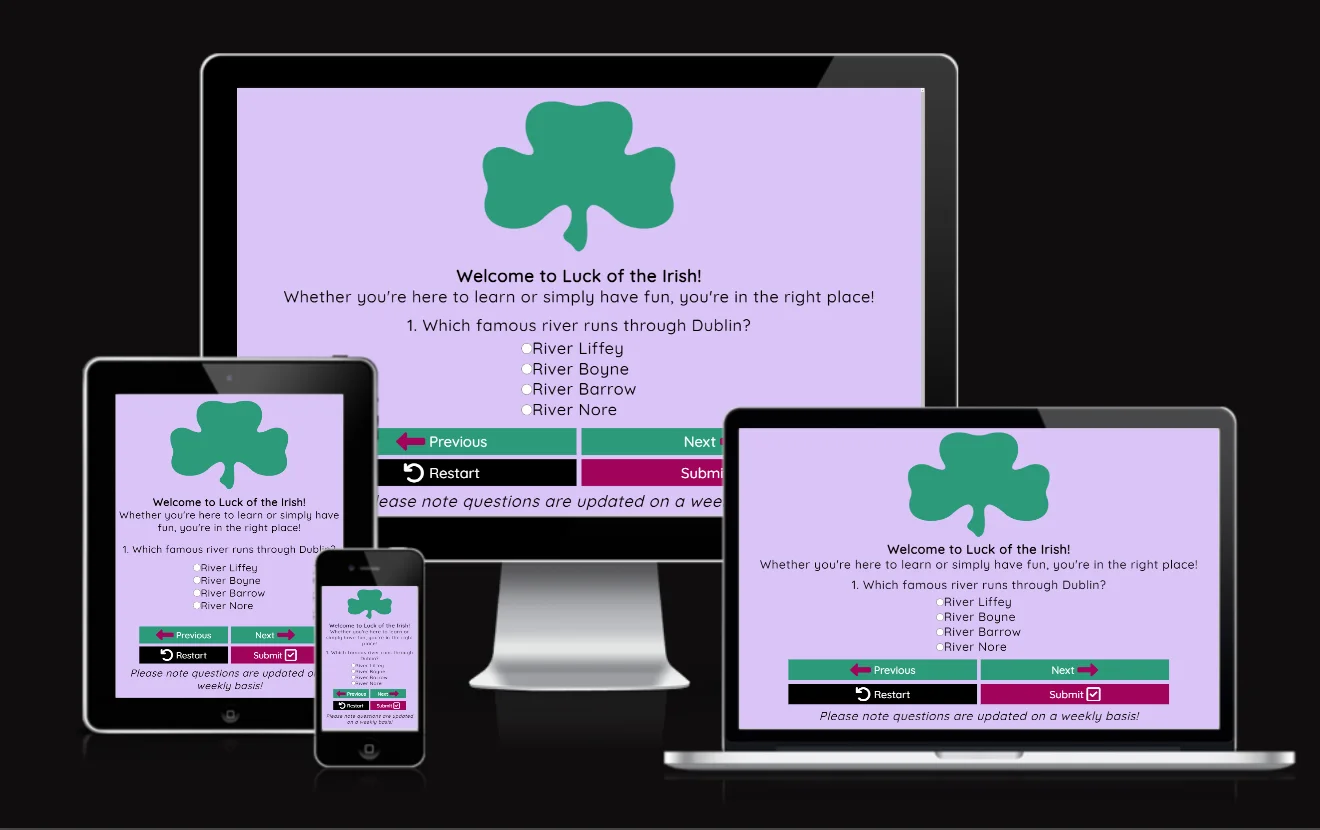
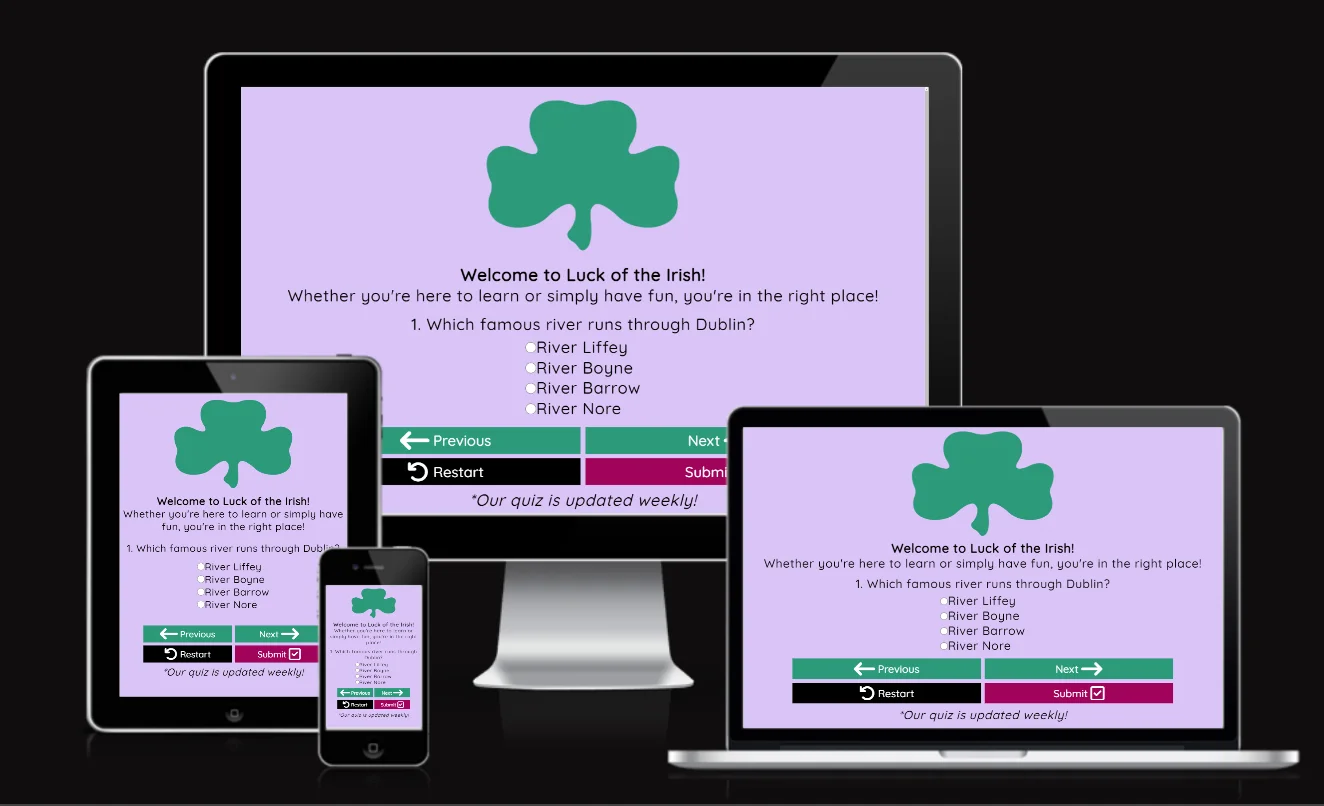
Added to readme file.

diff --git a/assets/css/style.css b/assets/css/style.css
@@ -1,5 +1,5 @@
 /*Google Fonts*/
-@import url('https://fonts.googleapis.com/css2?family=Quicksand:wght@500&display=swap');
+@import url('https://fonts.googleapis.com/css2?family=Croissant+One&family=Quicksand:wght@500&display=swap');
 
 * {
     margin: 0;
@@ -8,6 +8,7 @@
 }
 
 h1 {
+    font-family: 'Croissant One', serif;
     font-size: 18px;
 }
 
@@ -86,6 +87,21 @@ body {
     background-color: #fff;
     color: #a1045a;
     padding-left: 10px;
+}
+
+.div-choices:hover {
+    background-color: #4fce61;
+}
+
+/* The code below is from stack overflow */ 
+#previous:hover,
+#next:hover,
+#submit:hover {
+    background-image: linear-gradient(rgb(0 0 0/40%) 0 0);
+}
+
+#restart:hover {
+    background-color: #333333;
 }
 
 @media screen and (min-width:550px) {

diff --git a/assets/js/script.js b/assets/js/script.js
@@ -185,9 +185,13 @@ function displayNextQuestion() {
 
 function nextQuestion() {
     let selectedRadio = document.querySelector('input[name="answer"]:checked');
-    let selectedAnswer = parseInt(selectedRadio.value);
-    handleAnswer(selectedAnswer);
-    displayNextQuestion();
+    if (selectedRadio) {
+        let selectedAnswer = parseInt(selectedRadio.value);
+        handleAnswer(selectedAnswer);
+        displayNextQuestion();
+    } else {
+        alert('Please select an answer first');
+    }
 }
 
 /* Check if the answer is correct and update the score accordingly.

diff --git a/index.html b/index.html
@@ -20,7 +20,7 @@
 
     <!--Div that will contain all content-->
     <div class="container">
-        <div>
+        <div id="welcome-message">
             <h1>Welcome to Luck of the Irish!</h1>
             <p>Whether you're here to learn or simply have fun, you're in the 
                 right place! 

diff --git a/README.md b/README.md
@@ -24,6 +24,7 @@ Deployed site: [Luck of the Irish](https://anneenglish.github.io/Portfolio-2/)
   - [Typography](#typography)
   - [Imagery](#imagery)
   - [Features](#features)
+    - [Future Implementations](#future-implementations)
   - [Accessibility](#accessibility)
 - [Technologies Used](#technologies-used)
   - [Languages Used](#languages-used)
@@ -31,6 +32,8 @@ Deployed site: [Luck of the Irish](https://anneenglish.github.io/Portfolio-2/)
 - [Deployment and Local Development](#deployment-and-local-development)
   - [Deployment(GitHub Pages)](#deploymentgithub-pages)
   - [Local Development](#local-development)
+    - [Forking the Github Repository](#forking-the-github-repository)
+    - [Making a Local Clone](#making-a-local-clone)
 - [Testing](#testing)
   - [Testing User Stories from UX Section](#testing-user-stories-from-ux-section)
   - [Further Testing](#further-testing)
@@ -73,29 +76,147 @@ knowledge.
 ### Colour Scheme
 
 The colour scheme for the website was created by me, not using a colour palette
-generator. I chose these colours as I felt 
+generator. I chose these colours as I felt thyy tied in well with the theme of
+the quiz.
 
 ![Luck of the Irish Color Scheme](assets/images/colour-scheme.webp)
 
+In my style.css file I used variables to declare the colours above.
+This is how I used the colours for my site:
+
+- Body background colour: #DAC4F7
+- Previous and next button background colour: #2C9A7B
+- Restart background colour: #000000
+- Submit background colour: #A1045A
+- H1, paragraph and question content area text colour: #000000
+- Button text colour: #FFFFFF
+- When hovering over options background colour: #4FCE61
+- When hovering over restart button background colour: #333333
+
 ### Typography
+
+Google Fonts was used to import the fonts used on this site.
+The fonts I chose are:
+
+- 'Croissant One (Regular 400)' for the heading element.
+- 'Quicksand (Medium 500)' for all other text.
 
 ### Imagery
 
+There is one image used on this site and it is the logo. It is from Google Images
+and I have also credited it in the credit section with a link to the image.
+
 ### Features
 
+The website consists of one page (index.html). This page contains the following:
+
+- A favicon in the browser tab.
+- The title of the site which is also in the browser tab and then in an H1 element
+  with a welcome message.
+- Question content area which will display the questions and options.
+- Four buttons below the question content.
+  - Previous: To go back to previous question.
+  - Next: To go to the next question, provided the current question has been
+    answered. If it hasn't been answered it will display an alert message
+    which prompts the user to select an answer first.
+  - Restart: To go back to the very beginning of the quiz.
+  - Submit: To submit answers and show score at the end of the quiz. If the user
+    tries to submit their answers before all the questions have been answered
+    it will display an alert message prompting the user to answer all of the
+    questions first.
+- A footer which contains the text '*Our quiz is updated weekly!'.
+
+#### Future Implementations
+
+In future implementations I would like to do the following:
+
+- Give users the option to choose the quiz difficulty.
+- Give the user an option to create an account so they can store and view
+  previous scores.
+- Create a backend-end database so I can store the scores and the user would be
+  able to see how they scored against other users.
+
 ### Accessibility
+
+I have been very mindful when creating this website to make sure that it is
+accessible for all users by doing the following:
+
+- Using semantic HTML.
+- When hovering over an option the background colour changes to #4FCE61 which
+  highlights the fact they are hovering over it.
+- When hovering over any button (except restart) the background colour gets
+  darker to indicate it.
+- When hovering over the restart button the colour changes from #000000 to
+  #333333, which is a lighter shade of black.
+- Ensuring that there is sufficient contrast throughout the site.
 
 ## Technologies Used
 
 ### Languages Used
 
+HTML, CSS and Javascript.
+
 ### Libraries and Programs Used
+
+1. [Git](https://git-scm.com/): For version control.
+2. [Github:](https://github.com/): GitHub was used to store and save the
+   projects code after being pushed from Git.
+3. [Chrome DevTools:](https://developer.chrome.com/docs/devtools/): Chrome
+   DevTools was used to test features and fix styling and responsiveness issues.
+4. [Online Convert:](https://www.online-convert.com/): Online Convert was used
+   to convert images to WEBP for faster loading times on the site.
+5. [Am I Responsive?](http://ami.responsivedesign.is/): Am I Responsive was used
+   to show the responsiveness of the website on a range of devices.
+6. [Google Fonts:](https://fonts.google.com/): Google Fonts was used to import
+   the 'Croissant One' and 'Quicksand' fonts used throughout website page by
+   importing them into the style.css file.
+8. [Font Awesome:](https://fontawesome.com/): Font Awesome was used for the
+   website to add icons for the buttons. It was also used for aesthetic and UX.
 
 ## Deployment and Local Development
 
 ### Deployment(GitHub Pages)
 
+The project was deployed to GitHub Pages using the following steps:
+
+1. Log into [Github](https://github.com/)
+2. Locate and click on the GitHub Repository for the project you want to deploy.
+3. Locate the 'settings' for the repository. This will be at the top of the
+   repository (**not the top of the page**).
+4. Scroll through the settings until you see 'Pages' and click on it. This will
+   be in the navigation bar on the left of your screen.
+5. Under the heading 'source' click on the dropdown menu and select
+   'deploy from branch'.
+6. Under the 'branch' heading just below select 'main' from the first dropdown
+   menu, from the second dropdown menu select '/ (root)'.
+7. After you complete these steps make sure to save. The button for this is to
+   the right of the second dropdown menu.
+8. Scroll to the top of the page and you will find the link for the published
+   site.
+
 ### Local Development
+
+#### Forking the Github Repository
+
+Forking a GitHub repository is making a copy of the original on our account. We can view/edit without affecting the original repository. Follow the steps below to do this:
+
+1. Log into [Github](https://github.com/)
+2. Locate and click on the GitHub Repository for the project you want to fork.
+3. Just below the 'settings' for the repository you will see 'fork'. Click on it and you should now have a copy of the original repository on your GitHub account.
+
+#### Making a Local Clone
+
+1. Log into [Github](https://github.com/)
+2. Locate the GitHub repository for the project you want to clone.
+3. Locate and click on the green 'code' button. This should be just below the
+   'settings'.
+4. Choose whether you would like to clone with 'HTTPS', 'SSH' or 'GitHub CLI'.
+5. Copy the link after you select one of the options above.
+6. Open the terminal for your code editor and change the current working
+   directory to the location where you want the cloned directory to be made.
+7. Type 'git clone' into the terminal followed by the link you copied in Step 5
+   (paste the link into terminal).
+8. Press 'enter' and your local clone will be created.
 
 ## Testing
 
